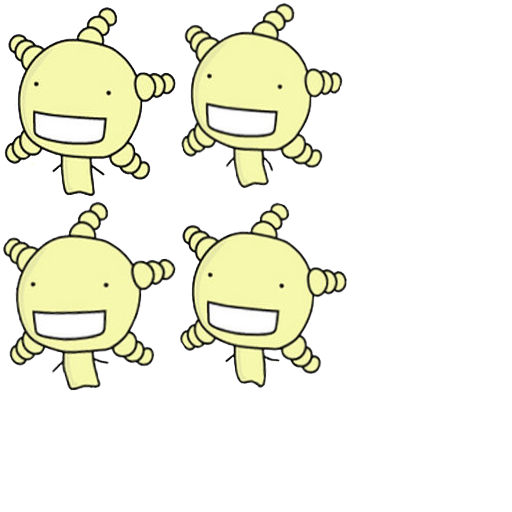
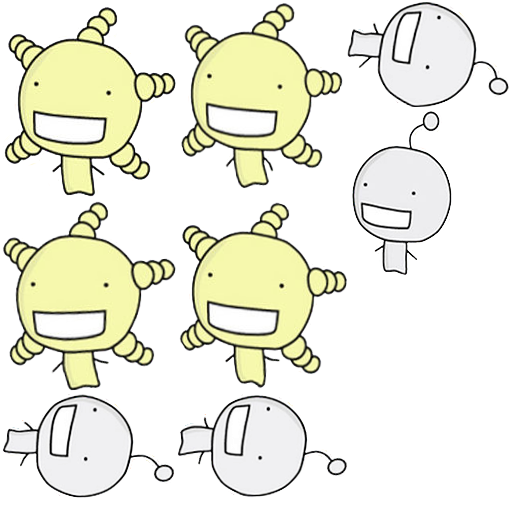
Bacteria image changed

diff --git a/src/Game/Bacteria.js b/src/Game/Bacteria.js
@@ -26,7 +26,7 @@ var Bacteria = cc.Sprite.extend({
 
         //this.initWithFile("BacteriaHappyGray.png");
         //this.initWithSpriteFrameName(arg.textureName);
-        var pFrame = cc.SpriteFrameCache.getInstance().getSpriteFrame("bacteriaYellow1.png");
+        var pFrame = cc.SpriteFrameCache.getInstance().getSpriteFrame("bacteriaGray1.png");
         this.initWithSpriteFrame(pFrame);
 
         this.animation = cc.AnimationCache.getInstance().getAnimation("BacteriaAnimation");
@@ -133,7 +133,7 @@ Bacteria.sharedAnimation = function (arg) {
     var str = "";
     //switch
     for (var i = 1; i < 5; i++) {
-        str = "bacteriaYellow" + i + ".png";
+        str = "bacteriaGray" + i + ".png";
         var frame = cc.SpriteFrameCache.getInstance().getSpriteFrame(str);
         animFrames.push(frame);
     }
